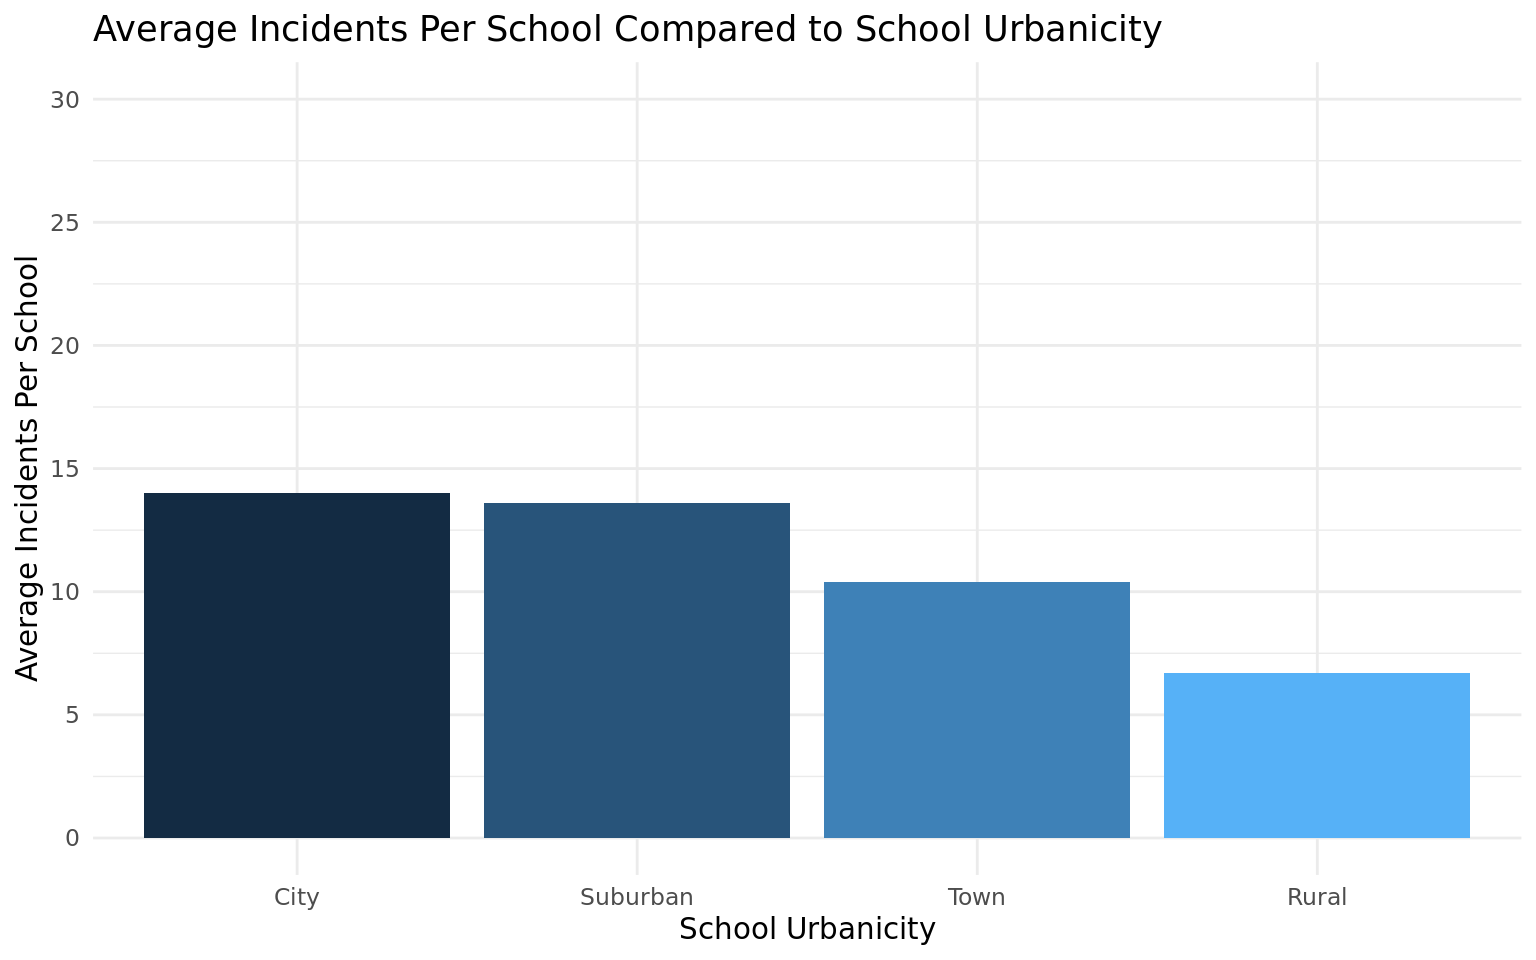
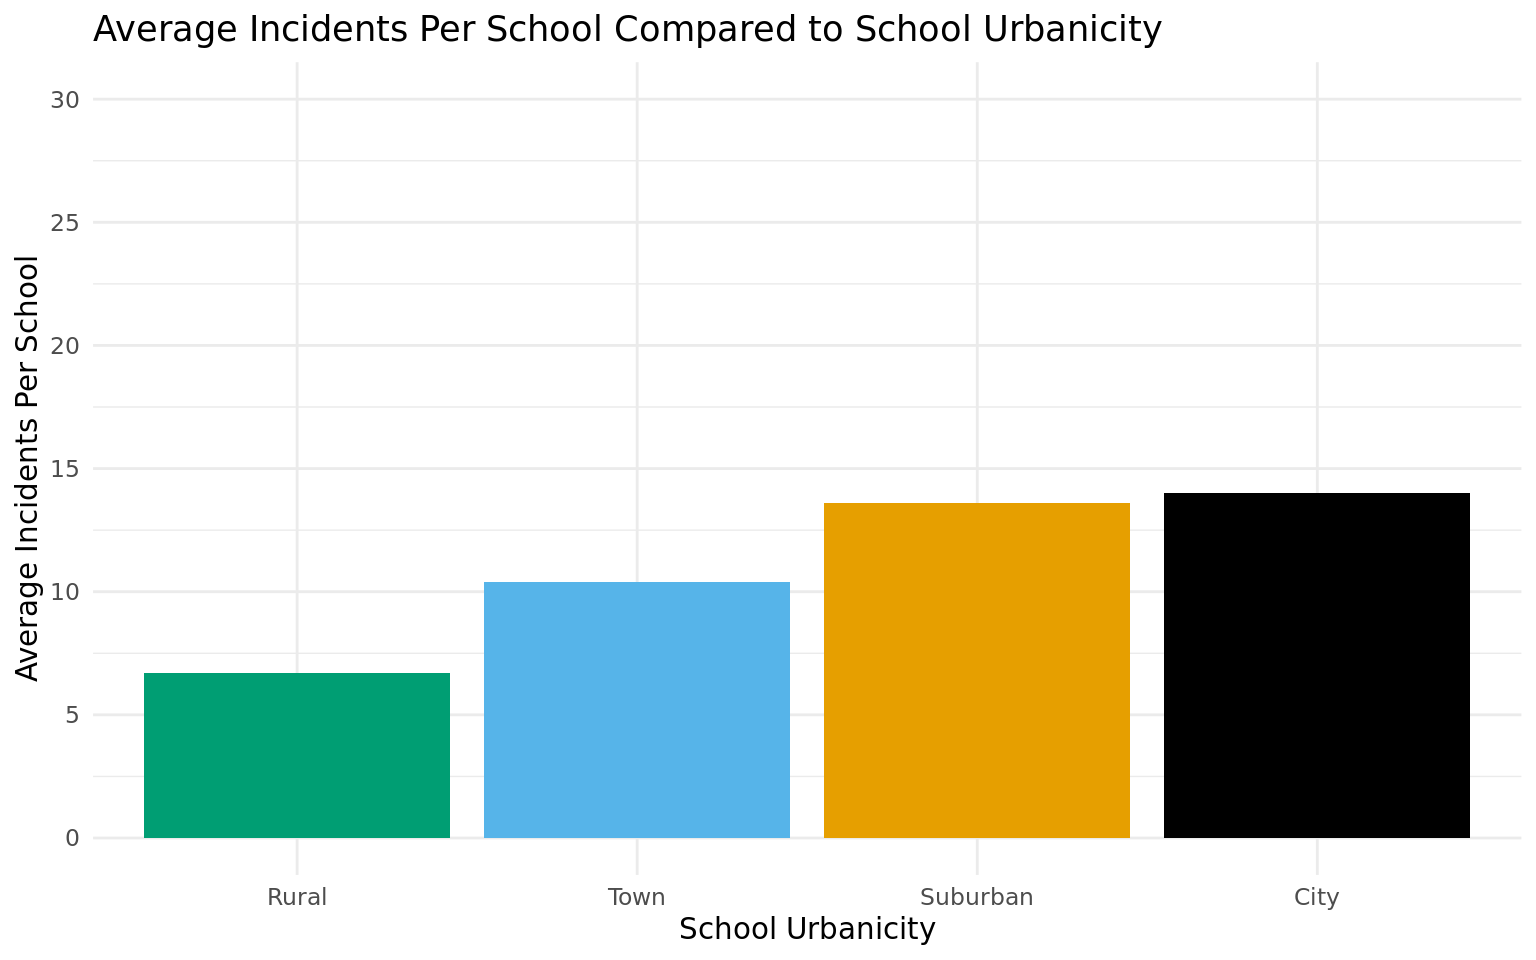
fixed the order of the colors in the urbanicity plots

diff --git a/docs/index.html b/docs/index.html
@@ -193,8 +193,8 @@ grid-auto-rows: minmax(0, 1fr);">
 </div>
 </div></div><div class="tab-pane html-fill-item html-fill-container" role="tabpanel" id="card-tabset-2-3"><div class="card-body html-fill-item html-fill-container" data-title="School Resources and Practices">
 <div class="cell-output-display html-fill-item html-fill-container">
-<div class="plotly html-widget html-fill-item html-fill-container" id="htmlwidget-8d497c5ce091d747cc45" style="width:100%;height:406px;"></div>
-<script type="application/json" data-for="htmlwidget-8d497c5ce091d747cc45">{"x":{"visdat":{"82652984964c":["function () ","plotlyVisDat"]},"cur_data":"82652984964c","attrs":{"82652984964c":{"x":{},"y":{},"text":{},"hoverinfo":"text","marker":{"color":{},"colorscale":"Blues"},"alpha_stroke":1,"sizes":[10,100],"spans":[1,20],"type":"bar"}},"layout":{"margin":{"b":40,"l":60,"t":25,"r":10},"title":"School Resources and Practices Impact on Incidents Reported to Police","xaxis":{"domain":[0,1],"automargin":true,"title":"School Resources and Practices","type":"category","categoryorder":"array","categoryarray":["C0110","C0112","C0114","C0116","C0120","C0121","C0122","C0125","C0129","C0134","C0136","C0138","C0139","C0140","C0141","C0142","C0143","C0144","C0146","C0150","C0153","C0155","C0157","C0158","C0161","C0162","C0163","C0165","C0166","C0167","C0169","C0170","C0174","C0175","C0176","C0177","C0179","C0181","C0183","C0186","C0190","C0192","C0196","C0198","C0204","C0206","C0208","C0210","C0212","C0214","C0216","C0218","C0265","C0266","C0267","C0268","C0269","C0270","C0271","C0272","C0273","C0274","C0276","C0277","C0278","C0600","C0604","C0606","C0608","C0610","C0612","C0614","C0616","C0618","C0621","C0622","C0624","C0626","C0628","C0630","C0632","C0636","C0638","C0640","C0642","C0644","C0646","C0648","C0650","C0661","C0667"]},"yaxis":{"domain":[0,1],"automargin":true,"title":"Slope"},"hovermode":"closest","showlegend":false},"source":"A","config":{"modeBarButtonsToAdd":["hoverclosest","hovercompare"],"showSendToCloud":false},"data":[{"x":["C0110","C0112","C0114","C0116","C0120","C0121","C0122","C0125","C0129","C0134","C0136","C0138","C0140","C0139","C0141","C0143","C0142","C0144","C0146","C0150","C0153","C0155","C0158","C0162","C0166","C0170","C0169","C0161","C0157","C0163","C0165","C0167","C0174","C0183","C0176","C0181","C0175","C0177","C0179","C0186","C0600","C0604","C0606","C0608","C0190","C0192","C0196","C0198","C0204","C0206","C0208","C0210","C0212","C0214","C0216","C0218","C0610","C0612","C0614","C0616","C0618","C0621","C0622","C0624","C0626","C0628","C0630","C0632","C0636","C0638","C0640","C0642","C0644","C0646","C0648","C0650","C0661","C0667","C0266","C0268","C0265","C0267","C0269","C0270","C0272","C0278","C0271","C0273","C0274","C0276","C0277"],"y":[-3.3668691832223816,-1.397978695326342,1.5042755731653841,6.9223910179154826,5.5923792209519281,0.10162008640761738,0.38471471486976588,5.3926841163146468,3.10914754148813,-2.554883943847349,0.54076999384254332,2.9600952257060857,0.10094253615951802,-0.66765359314992279,-1.1638254809796569,3.6089401658507221,5.4136634418915675,-0.66869858718602793,2.5937544012415823,0.20258159215807381,-3.7693381487649709,0.92324636936249516,0.9828019647213625,1.1661963836796494,1.8141177488224522,-0.50213313132738957,1.5064031185748636,-0.65068982417313959,-0.66569862778026057,0.94572122348608911,-0.13722340711816758,2.1171389710165229,-1.8020012834634898,-0.7738020329335481,-2.6028444791733065,0.22718638409237951,-0.28226096995771049,2.4715798671345892,-1.0487296030545865,-2.1489351310912186,2.132152941663104,9.0542360519560479,3.4325519275683951,6.2753511277332183,1.6054256238741895,-0.045955228494010437,0.56861208040897826,2.2520642457143305,-2.4958357575810455,2.3024546477479255,6.1815118752910729,2.5218428380542521,3.2899024421275684,2.1524971476861934,2.6892866076620305,2.7976961117939849,7.9806976290657268,8.347940605873502,8.5645443252970352,8.1996248153742055,4.5496806361740294,8.3660773061237492,7.6663482252313626,8.1760762402709641,6.9506963037097949,6.1526617110337627,8.8679905345160339,8.3807840971700749,8.1388953809172992,5.0873604459782609,6.5216405341707704,2.7215185594736853,8.1128488245548134,9.3574927652626823,8.6142858233994009,7.3360396667182739,3.319417095504837,2.4894111689124681,-0.39220562558987138,1.5348909923613838,0.35096960723585208,-0.81104149847696094,0.97559413797251393,0.55693405631333048,0.76893735011555531,1.7706832234258596,0.158881877329137,-0.53309320625460432,2.6754937190358108,-0.32764182657786572,0.52346435141880943],"text":["Variable:  C0110 <br>Slope:  -3.36686918322238","Variable:  C0112 <br>Slope:  -1.39797869532634","Variable:  C0114 <br>Slope:  1.50427557316538","Variable:  C0116 <br>Slope:  6.92239101791548","Variable:  C0120 <br>Slope:  5.59237922095193","Variable:  C0121 <br>Slope:  0.101620086407617","Variable:  C0122 <br>Slope:  0.384714714869766","Variable:  C0125 <br>Slope:  5.39268411631465","Variable:  C0129 <br>Slope:  3.10914754148813","Variable:  C0134 <br>Slope:  -2.55488394384735","Variable:  C0136 <br>Slope:  0.540769993842543","Variable:  C0138 <br>Slope:  2.96009522570609","Variable:  C0140 <br>Slope:  0.100942536159518","Variable:  C0139 <br>Slope:  -0.667653593149923","Variable:  C0141 <br>Slope:  -1.16382548097966","Variable:  C0143 <br>Slope:  3.60894016585072","Variable:  C0142 <br>Slope:  5.41366344189157","Variable:  C0144 <br>Slope:  -0.668698587186028","Variable:  C0146 <br>Slope:  2.59375440124158","Variable:  C0150 <br>Slope:  0.202581592158074","Variable:  C0153 <br>Slope:  -3.76933814876497","Variable:  C0155 <br>Slope:  0.923246369362495","Variable:  C0158 <br>Slope:  0.982801964721362","Variable:  C0162 <br>Slope:  1.16619638367965","Variable:  C0166 <br>Slope:  1.81411774882245","Variable:  C0170 <br>Slope:  -0.50213313132739","Variable:  C0169 <br>Slope:  1.50640311857486","Variable:  C0161 <br>Slope:  -0.65068982417314","Variable:  C0157 <br>Slope:  -0.665698627780261","Variable:  C0163 <br>Slope:  0.945721223486089","Variable:  C0165 <br>Slope:  -0.137223407118168","Variable:  C0167 <br>Slope:  2.11713897101652","Variable:  C0174 <br>Slope:  -1.80200128346349","Variable:  C0183 <br>Slope:  -0.773802032933548","Variable:  C0176 <br>Slope:  -2.60284447917331","Variable:  C0181 <br>Slope:  0.22718638409238","Variable:  C0175 <br>Slope:  -0.28226096995771","Variable:  C0177 <br>Slope:  2.47157986713459","Variable:  C0179 <br>Slope:  -1.04872960305459","Variable:  C0186 <br>Slope:  -2.14893513109122","Variable:  C0600 <br>Slope:  2.1321529416631","Variable:  C0604 <br>Slope:  9.05423605195605","Variable:  C0606 <br>Slope:  3.4325519275684","Variable:  C0608 <br>Slope:  6.27535112773322","Variable:  C0190 <br>Slope:  1.60542562387419","Variable:  C0192 <br>Slope:  -0.0459552284940104","Variable:  C0196 <br>Slope:  0.568612080408978","Variable:  C0198 <br>Slope:  2.25206424571433","Variable:  C0204 <br>Slope:  -2.49583575758105","Variable:  C0206 <br>Slope:  2.30245464774793","Variable:  C0208 <br>Slope:  6.18151187529107","Variable:  C0210 <br>Slope:  2.52184283805425","Variable:  C0212 <br>Slope:  3.28990244212757","Variable:  C0214 <br>Slope:  2.15249714768619","Variable:  C0216 <br>Slope:  2.68928660766203","Variable:  C0218 <br>Slope:  2.79769611179398","Variable:  C0610 <br>Slope:  7.98069762906573","Variable:  C0612 <br>Slope:  8.3479406058735","Variable:  C0614 <br>Slope:  8.56454432529704","Variable:  C0616 <br>Slope:  8.19962481537421","Variable:  C0618 <br>Slope:  4.54968063617403","Variable:  C0621 <br>Slope:  8.36607730612375","Variable:  C0622 <br>Slope:  7.66634822523136","Variable:  C0624 <br>Slope:  8.17607624027096","Variable:  C0626 <br>Slope:  6.95069630370979","Variable:  C0628 <br>Slope:  6.15266171103376","Variable:  C0630 <br>Slope:  8.86799053451603","Variable:  C0632 <br>Slope:  8.38078409717007","Variable:  C0636 <br>Slope:  8.1388953809173","Variable:  C0638 <br>Slope:  5.08736044597826","Variable:  C0640 <br>Slope:  6.52164053417077","Variable:  C0642 <br>Slope:  2.72151855947369","Variable:  C0644 <br>Slope:  8.11284882455481","Variable:  C0646 <br>Slope:  9.35749276526268","Variable:  C0648 <br>Slope:  8.6142858233994","Variable:  C0650 <br>Slope:  7.33603966671827","Variable:  C0661 <br>Slope:  3.31941709550484","Variable:  C0667 <br>Slope:  2.48941116891247","Variable:  C0266 <br>Slope:  -0.392205625589871","Variable:  C0268 <br>Slope:  1.53489099236138","Variable:  C0265 <br>Slope:  0.350969607235852","Variable:  C0267 <br>Slope:  -0.811041498476961","Variable:  C0269 <br>Slope:  0.975594137972514","Variable:  C0270 <br>Slope:  0.55693405631333","Variable:  C0272 <br>Slope:  0.768937350115555","Variable:  C0278 <br>Slope:  1.77068322342586","Variable:  C0271 <br>Slope:  0.158881877329137","Variable:  C0273 <br>Slope:  -0.533093206254604","Variable:  C0274 <br>Slope:  2.67549371903581","Variable:  C0276 <br>Slope:  -0.327641826577866","Variable:  C0277 <br>Slope:  0.523464351418809"],"hoverinfo":["text","text","text","text","text","text","text","text","text","text","text","text","text","text","text","text","text","text","text","text","text","text","text","text","text","text","text","text","text","text","text","text","text","text","text","text","text","text","text","text","text","text","text","text","text","text","text","text","text","text","text","text","text","text","text","text","text","text","text","text","text","text","text","text","text","text","text","text","text","text","text","text","text","text","text","text","text","text","text","text","text","text","text","text","text","text","text","text","text","text","text"],"marker":{"color":[0.12879729937828838,0.12831194552572575,0.12911930627225793,0.1308072770342974,0.13203234330399377,0.12812183669942298,0.12817007645890915,0.14063305826394354,0.13014178927941794,0.12967117602415376,0.12824668068209868,0.13164492971521077,0.12811845706596597,0.12829029985929694,0.12860683331756015,0.13366108000729554,0.134143525187712,0.1282782146979019,0.1292608498491325,0.12812938468515009,0.13389064868016115,0.12821250410984028,0.12821682765186293,0.12872278491312439,0.12848566861954586,0.12820975913626972,0.12849971546270442,0.12830501022054305,0.12821604133038256,0.12821807674092831,0.12811868016939043,0.12919725607893415,0.12849297056110437,0.1282476487179961,0.12878310817845498,0.12812446629080393,0.12815285046461172,0.12922402326803201,0.12858278988982499,0.12922977424340568,0.13010715679275048,0.15625333685299586,0.13278869204123203,0.14288911347030089,0.12926002743997539,0.12811852441941887,0.16932551808769525,0.15930694204250212,0.13056026950296443,0.1301711975907949,0.14457273388048525,0.1295901476999328,0.13223849235872628,0.13016261634563117,0.13092650755094065,0.13108530638348861,0.15068100303557563,0.15345705944034771,0.15580251713346341,0.15412269458663119,0.13593243420082476,0.15398122406907427,0.15241746175592133,0.15284277822835945,0.14316180404589135,0.14374046850343197,0.15847278795450828,0.15626571859902311,0.15427691447090475,0.13870510805230069,0.14527695912711205,0.13046918037706723,0.15420263035540338,0.1621600946137049,0.15292965543226697,0.15005263222898887,0.13287119253232657,0.13077777571819016,0.12814836315143593,0.12887614832227604,0.12816006186305029,0.12828255045738529,0.12853206296238598,0.12813969509261605,0.12837963025977689,0.12922908277911194,0.12812810984118636,0.12820635175431877,0.13122628871301745,0.12814585784509172,0.12821118898576306],"colorscale":"Blues","line":{"color":"rgba(31,119,180,1)"}},"type":"bar","error_y":{"color":"rgba(31,119,180,1)"},"error_x":{"color":"rgba(31,119,180,1)"},"xaxis":"x","yaxis":"y","frame":null}],"highlight":{"on":"plotly_click","persistent":false,"dynamic":false,"selectize":false,"opacityDim":0.20000000000000001,"selected":{"opacity":1},"debounce":0},"shinyEvents":["plotly_hover","plotly_click","plotly_selected","plotly_relayout","plotly_brushed","plotly_brushing","plotly_clickannotation","plotly_doubleclick","plotly_deselect","plotly_afterplot","plotly_sunburstclick"],"base_url":"https://plot.ly"},"evals":[],"jsHooks":[]}</script>
+<div class="plotly html-widget html-fill-item html-fill-container" id="htmlwidget-237aad793451fef1e45c" style="width:100%;height:406px;"></div>
+<script type="application/json" data-for="htmlwidget-237aad793451fef1e45c">{"x":{"visdat":{"11fe1139486bd":["function () ","plotlyVisDat"]},"cur_data":"11fe1139486bd","attrs":{"11fe1139486bd":{"x":{},"y":{},"text":{},"hoverinfo":"text","marker":{"color":{},"colorscale":"Blues"},"alpha_stroke":1,"sizes":[10,100],"spans":[1,20],"type":"bar"}},"layout":{"margin":{"b":40,"l":60,"t":25,"r":10},"title":"School Resources and Practices Impact on Incidents Reported to Police","xaxis":{"domain":[0,1],"automargin":true,"title":"School Resources and Practices","type":"category","categoryorder":"array","categoryarray":["C0110","C0112","C0114","C0116","C0120","C0121","C0122","C0125","C0129","C0134","C0136","C0138","C0139","C0140","C0141","C0142","C0143","C0144","C0146","C0150","C0153","C0155","C0157","C0158","C0161","C0162","C0163","C0165","C0166","C0167","C0169","C0170","C0174","C0175","C0176","C0177","C0179","C0181","C0183","C0186","C0190","C0192","C0196","C0198","C0204","C0206","C0208","C0210","C0212","C0214","C0216","C0218","C0265","C0266","C0267","C0268","C0269","C0270","C0271","C0272","C0273","C0274","C0276","C0277","C0278","C0600","C0604","C0606","C0608","C0610","C0612","C0614","C0616","C0618","C0621","C0622","C0624","C0626","C0628","C0630","C0632","C0636","C0638","C0640","C0642","C0644","C0646","C0648","C0650","C0661","C0667"]},"yaxis":{"domain":[0,1],"automargin":true,"title":"Slope"},"hovermode":"closest","showlegend":false},"source":"A","config":{"modeBarButtonsToAdd":["hoverclosest","hovercompare"],"showSendToCloud":false},"data":[{"x":["C0110","C0112","C0114","C0116","C0120","C0121","C0122","C0125","C0129","C0134","C0136","C0138","C0140","C0139","C0141","C0143","C0142","C0144","C0146","C0150","C0153","C0155","C0158","C0162","C0166","C0170","C0169","C0161","C0157","C0163","C0165","C0167","C0174","C0183","C0176","C0181","C0175","C0177","C0179","C0186","C0600","C0604","C0606","C0608","C0190","C0192","C0196","C0198","C0204","C0206","C0208","C0210","C0212","C0214","C0216","C0218","C0610","C0612","C0614","C0616","C0618","C0621","C0622","C0624","C0626","C0628","C0630","C0632","C0636","C0638","C0640","C0642","C0644","C0646","C0648","C0650","C0661","C0667","C0266","C0268","C0265","C0267","C0269","C0270","C0272","C0278","C0271","C0273","C0274","C0276","C0277"],"y":[-3.3668691832223816,-1.397978695326342,1.5042755731653841,6.9223910179154826,5.5923792209519281,0.10162008640761738,0.38471471486976588,5.3926841163146468,3.10914754148813,-2.554883943847349,0.54076999384254332,2.9600952257060857,0.10094253615951802,-0.66765359314992279,-1.1638254809796569,3.6089401658507221,5.4136634418915675,-0.66869858718602793,2.5937544012415823,0.20258159215807381,-3.7693381487649709,0.92324636936249516,0.9828019647213625,1.1661963836796494,1.8141177488224522,-0.50213313132738957,1.5064031185748636,-0.65068982417313959,-0.66569862778026057,0.94572122348608911,-0.13722340711816758,2.1171389710165229,-1.8020012834634898,-0.7738020329335481,-2.6028444791733065,0.22718638409237951,-0.28226096995771049,2.4715798671345892,-1.0487296030545865,-2.1489351310912186,2.132152941663104,9.0542360519560479,3.4325519275683951,6.2753511277332183,1.6054256238741895,-0.045955228494010437,0.56861208040897826,2.2520642457143305,-2.4958357575810455,2.3024546477479255,6.1815118752910729,2.5218428380542521,3.2899024421275684,2.1524971476861934,2.6892866076620305,2.7976961117939849,7.9806976290657268,8.347940605873502,8.5645443252970352,8.1996248153742055,4.5496806361740294,8.3660773061237492,7.6663482252313626,8.1760762402709641,6.9506963037097949,6.1526617110337627,8.8679905345160339,8.3807840971700749,8.1388953809172992,5.0873604459782609,6.5216405341707704,2.7215185594736853,8.1128488245548134,9.3574927652626823,8.6142858233994009,7.3360396667182739,3.319417095504837,2.4894111689124681,-0.39220562558987138,1.5348909923613838,0.35096960723585208,-0.81104149847696094,0.97559413797251393,0.55693405631333048,0.76893735011555531,1.7706832234258596,0.158881877329137,-0.53309320625460432,2.6754937190358108,-0.32764182657786572,0.52346435141880943],"text":["Variable:  C0110 <br>Slope:  -3.36686918322238","Variable:  C0112 <br>Slope:  -1.39797869532634","Variable:  C0114 <br>Slope:  1.50427557316538","Variable:  C0116 <br>Slope:  6.92239101791548","Variable:  C0120 <br>Slope:  5.59237922095193","Variable:  C0121 <br>Slope:  0.101620086407617","Variable:  C0122 <br>Slope:  0.384714714869766","Variable:  C0125 <br>Slope:  5.39268411631465","Variable:  C0129 <br>Slope:  3.10914754148813","Variable:  C0134 <br>Slope:  -2.55488394384735","Variable:  C0136 <br>Slope:  0.540769993842543","Variable:  C0138 <br>Slope:  2.96009522570609","Variable:  C0140 <br>Slope:  0.100942536159518","Variable:  C0139 <br>Slope:  -0.667653593149923","Variable:  C0141 <br>Slope:  -1.16382548097966","Variable:  C0143 <br>Slope:  3.60894016585072","Variable:  C0142 <br>Slope:  5.41366344189157","Variable:  C0144 <br>Slope:  -0.668698587186028","Variable:  C0146 <br>Slope:  2.59375440124158","Variable:  C0150 <br>Slope:  0.202581592158074","Variable:  C0153 <br>Slope:  -3.76933814876497","Variable:  C0155 <br>Slope:  0.923246369362495","Variable:  C0158 <br>Slope:  0.982801964721362","Variable:  C0162 <br>Slope:  1.16619638367965","Variable:  C0166 <br>Slope:  1.81411774882245","Variable:  C0170 <br>Slope:  -0.50213313132739","Variable:  C0169 <br>Slope:  1.50640311857486","Variable:  C0161 <br>Slope:  -0.65068982417314","Variable:  C0157 <br>Slope:  -0.665698627780261","Variable:  C0163 <br>Slope:  0.945721223486089","Variable:  C0165 <br>Slope:  -0.137223407118168","Variable:  C0167 <br>Slope:  2.11713897101652","Variable:  C0174 <br>Slope:  -1.80200128346349","Variable:  C0183 <br>Slope:  -0.773802032933548","Variable:  C0176 <br>Slope:  -2.60284447917331","Variable:  C0181 <br>Slope:  0.22718638409238","Variable:  C0175 <br>Slope:  -0.28226096995771","Variable:  C0177 <br>Slope:  2.47157986713459","Variable:  C0179 <br>Slope:  -1.04872960305459","Variable:  C0186 <br>Slope:  -2.14893513109122","Variable:  C0600 <br>Slope:  2.1321529416631","Variable:  C0604 <br>Slope:  9.05423605195605","Variable:  C0606 <br>Slope:  3.4325519275684","Variable:  C0608 <br>Slope:  6.27535112773322","Variable:  C0190 <br>Slope:  1.60542562387419","Variable:  C0192 <br>Slope:  -0.0459552284940104","Variable:  C0196 <br>Slope:  0.568612080408978","Variable:  C0198 <br>Slope:  2.25206424571433","Variable:  C0204 <br>Slope:  -2.49583575758105","Variable:  C0206 <br>Slope:  2.30245464774793","Variable:  C0208 <br>Slope:  6.18151187529107","Variable:  C0210 <br>Slope:  2.52184283805425","Variable:  C0212 <br>Slope:  3.28990244212757","Variable:  C0214 <br>Slope:  2.15249714768619","Variable:  C0216 <br>Slope:  2.68928660766203","Variable:  C0218 <br>Slope:  2.79769611179398","Variable:  C0610 <br>Slope:  7.98069762906573","Variable:  C0612 <br>Slope:  8.3479406058735","Variable:  C0614 <br>Slope:  8.56454432529704","Variable:  C0616 <br>Slope:  8.19962481537421","Variable:  C0618 <br>Slope:  4.54968063617403","Variable:  C0621 <br>Slope:  8.36607730612375","Variable:  C0622 <br>Slope:  7.66634822523136","Variable:  C0624 <br>Slope:  8.17607624027096","Variable:  C0626 <br>Slope:  6.95069630370979","Variable:  C0628 <br>Slope:  6.15266171103376","Variable:  C0630 <br>Slope:  8.86799053451603","Variable:  C0632 <br>Slope:  8.38078409717007","Variable:  C0636 <br>Slope:  8.1388953809173","Variable:  C0638 <br>Slope:  5.08736044597826","Variable:  C0640 <br>Slope:  6.52164053417077","Variable:  C0642 <br>Slope:  2.72151855947369","Variable:  C0644 <br>Slope:  8.11284882455481","Variable:  C0646 <br>Slope:  9.35749276526268","Variable:  C0648 <br>Slope:  8.6142858233994","Variable:  C0650 <br>Slope:  7.33603966671827","Variable:  C0661 <br>Slope:  3.31941709550484","Variable:  C0667 <br>Slope:  2.48941116891247","Variable:  C0266 <br>Slope:  -0.392205625589871","Variable:  C0268 <br>Slope:  1.53489099236138","Variable:  C0265 <br>Slope:  0.350969607235852","Variable:  C0267 <br>Slope:  -0.811041498476961","Variable:  C0269 <br>Slope:  0.975594137972514","Variable:  C0270 <br>Slope:  0.55693405631333","Variable:  C0272 <br>Slope:  0.768937350115555","Variable:  C0278 <br>Slope:  1.77068322342586","Variable:  C0271 <br>Slope:  0.158881877329137","Variable:  C0273 <br>Slope:  -0.533093206254604","Variable:  C0274 <br>Slope:  2.67549371903581","Variable:  C0276 <br>Slope:  -0.327641826577866","Variable:  C0277 <br>Slope:  0.523464351418809"],"hoverinfo":["text","text","text","text","text","text","text","text","text","text","text","text","text","text","text","text","text","text","text","text","text","text","text","text","text","text","text","text","text","text","text","text","text","text","text","text","text","text","text","text","text","text","text","text","text","text","text","text","text","text","text","text","text","text","text","text","text","text","text","text","text","text","text","text","text","text","text","text","text","text","text","text","text","text","text","text","text","text","text","text","text","text","text","text","text","text","text","text","text","text","text"],"marker":{"color":[0.12879729937828838,0.12831194552572575,0.12911930627225793,0.1308072770342974,0.13203234330399377,0.12812183669942298,0.12817007645890915,0.14063305826394354,0.13014178927941794,0.12967117602415376,0.12824668068209868,0.13164492971521077,0.12811845706596597,0.12829029985929694,0.12860683331756015,0.13366108000729554,0.134143525187712,0.1282782146979019,0.1292608498491325,0.12812938468515009,0.13389064868016115,0.12821250410984028,0.12821682765186293,0.12872278491312439,0.12848566861954586,0.12820975913626972,0.12849971546270442,0.12830501022054305,0.12821604133038256,0.12821807674092831,0.12811868016939043,0.12919725607893415,0.12849297056110437,0.1282476487179961,0.12878310817845498,0.12812446629080393,0.12815285046461172,0.12922402326803201,0.12858278988982499,0.12922977424340568,0.13010715679275048,0.15625333685299586,0.13278869204123203,0.14288911347030089,0.12926002743997539,0.12811852441941887,0.16932551808769525,0.15930694204250212,0.13056026950296443,0.1301711975907949,0.14457273388048525,0.1295901476999328,0.13223849235872628,0.13016261634563117,0.13092650755094065,0.13108530638348861,0.15068100303557563,0.15345705944034771,0.15580251713346341,0.15412269458663119,0.13593243420082476,0.15398122406907427,0.15241746175592133,0.15284277822835945,0.14316180404589135,0.14374046850343197,0.15847278795450828,0.15626571859902311,0.15427691447090475,0.13870510805230069,0.14527695912711205,0.13046918037706723,0.15420263035540338,0.1621600946137049,0.15292965543226697,0.15005263222898887,0.13287119253232657,0.13077777571819016,0.12814836315143593,0.12887614832227604,0.12816006186305029,0.12828255045738529,0.12853206296238598,0.12813969509261605,0.12837963025977689,0.12922908277911194,0.12812810984118636,0.12820635175431877,0.13122628871301745,0.12814585784509172,0.12821118898576306],"colorscale":"Blues","line":{"color":"rgba(31,119,180,1)"}},"type":"bar","error_y":{"color":"rgba(31,119,180,1)"},"error_x":{"color":"rgba(31,119,180,1)"},"xaxis":"x","yaxis":"y","frame":null}],"highlight":{"on":"plotly_click","persistent":false,"dynamic":false,"selectize":false,"opacityDim":0.20000000000000001,"selected":{"opacity":1},"debounce":0},"shinyEvents":["plotly_hover","plotly_click","plotly_selected","plotly_relayout","plotly_brushed","plotly_brushing","plotly_clickannotation","plotly_doubleclick","plotly_deselect","plotly_afterplot","plotly_sunburstclick"],"base_url":"https://plot.ly"},"evals":[],"jsHooks":[]}</script>
 </div>
 </div></div></div><bslib-tooltip placement="auto" bsoptions="[]" data-require-bs-version="5" data-require-bs-caller="tooltip()">
     <template>Expand</template>
